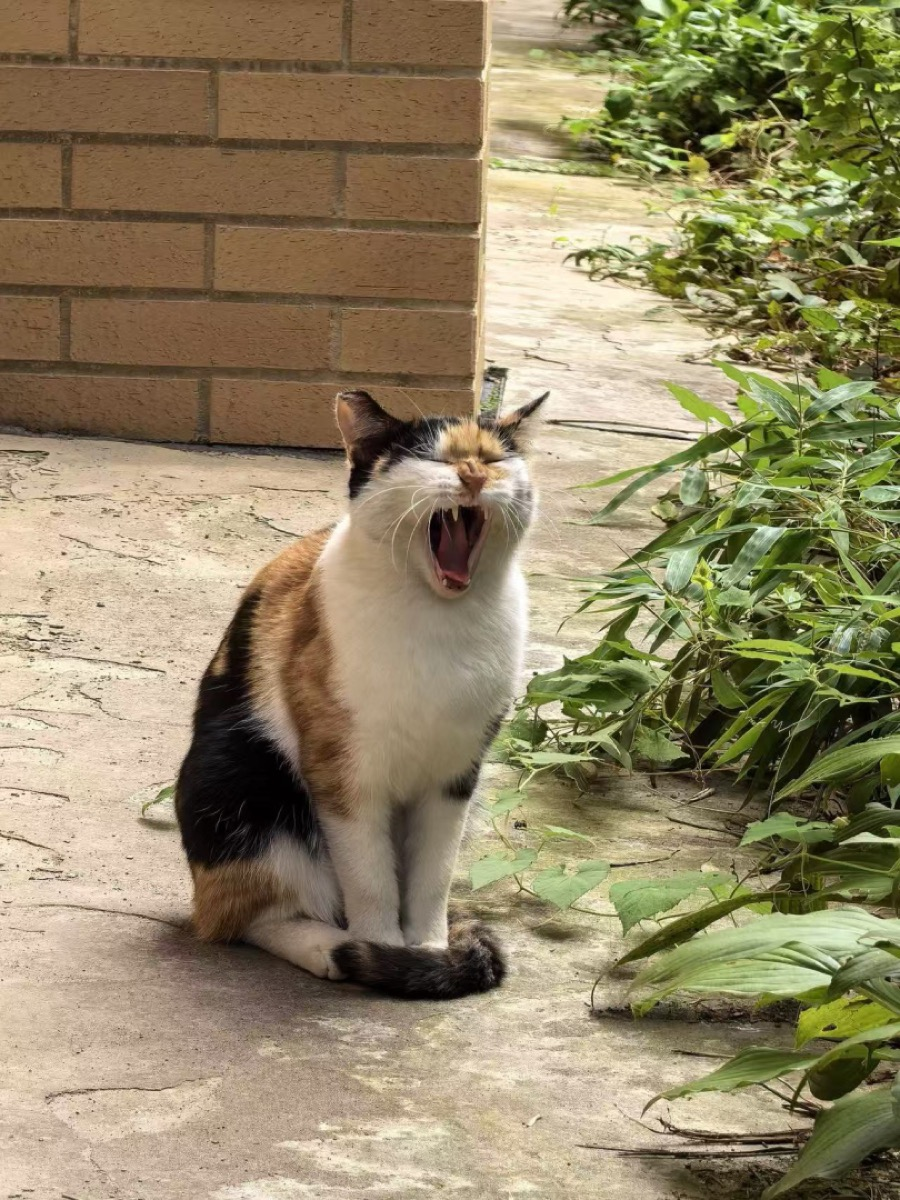
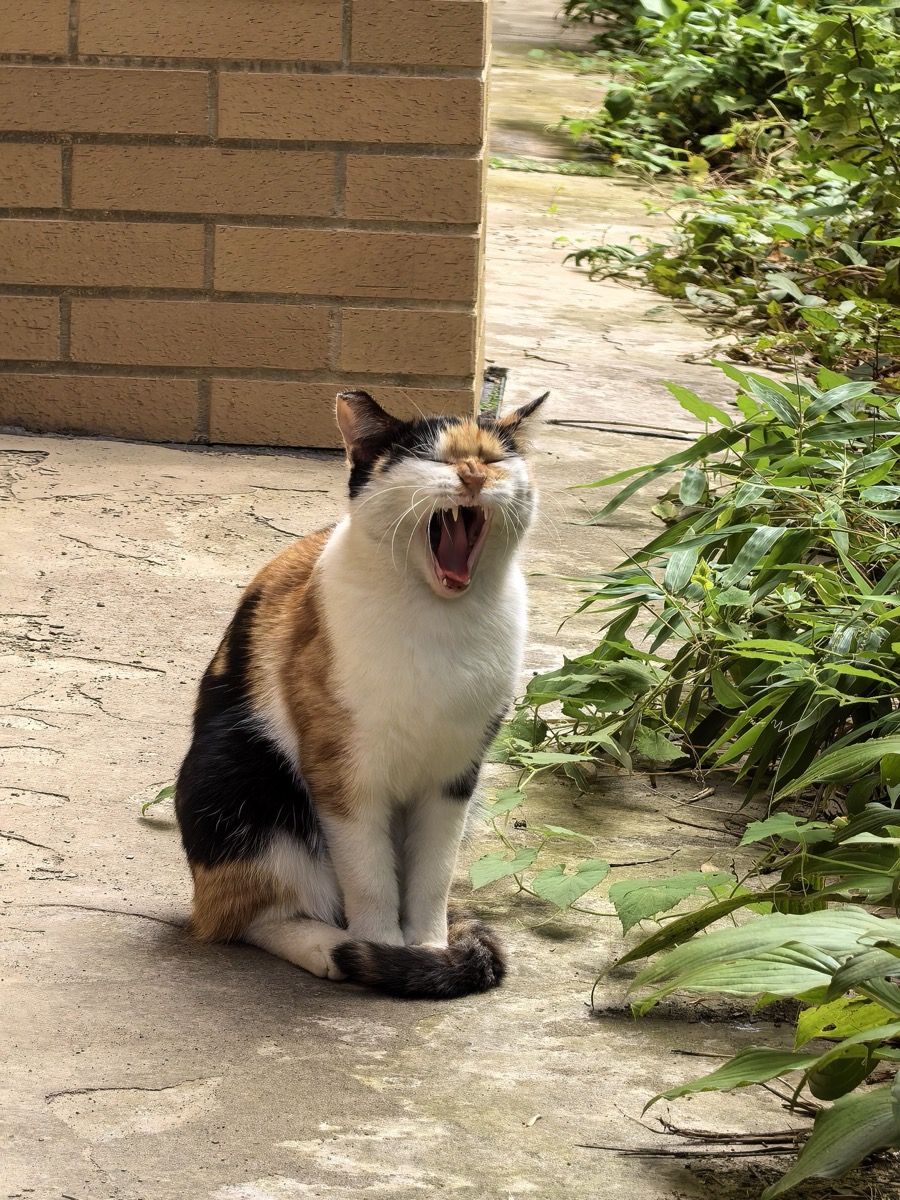
feat: 豆腐脑第3张换用更清晰素材并新增第4张，芸豆新增第4张照片

diff --git a/js/cats.js b/js/cats.js
@@ -2391,7 +2391,8 @@ export const catProfiles = [
     "images": [
       "images/芸豆/芸豆1.jpg",
       "images/芸豆/芸豆2.jpg",
-      "images/芸豆/芸豆3.jpg"
+      "images/芸豆/芸豆3.jpg",
+      "images/芸豆/芸豆4.jpg"
     ],
     "personality": [
       "软萌好盘",
@@ -2504,7 +2505,7 @@ export const catProfiles = [
     "sourceImages": [
       "https://static.nordri.co/rms/public/193079755/2025/0911/21/e8b8cca1c-6440670de9fcf40003d8ed96e8b2715a.jpg"
     ],
-    "photoUpdatedAt": "2026-09-30"
+    "photoUpdatedAt": "2026-10-02"
   },
   {
     "name": "橙留香",
@@ -7894,7 +7895,8 @@ export const catProfiles = [
     "images": [
       "images/豆腐脑/豆腐脑1.jpg",
       "images/豆腐脑/豆腐脑2.jpg",
-      "images/豆腐脑/豆腐脑3.jpg"
+      "images/豆腐脑/豆腐脑3.jpg",
+      "images/豆腐脑/豆腐脑4.jpg"
     ],
     "personality": [
       "生人勿近",
